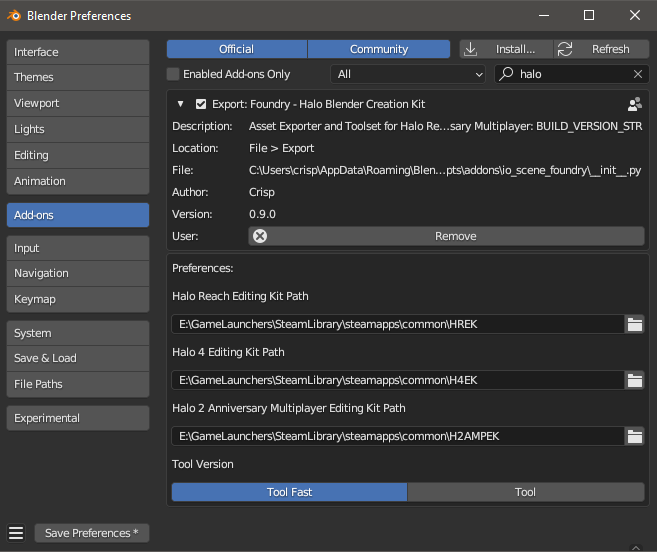
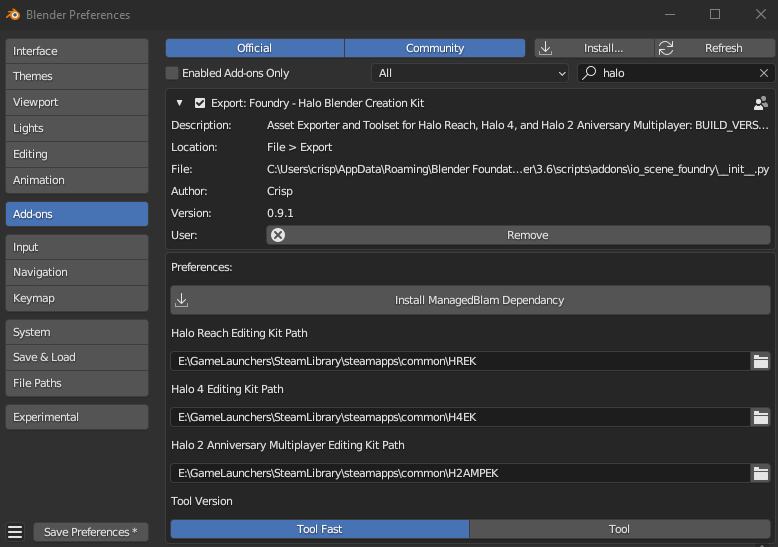
version update

diff --git a/io_scene_foundry/__init__.py b/io_scene_foundry/__init__.py
@@ -29,15 +29,13 @@
 
 import ctypes
 import bpy
-from bpy.types import AddonPreferences, Operator
-from bpy.props import StringProperty, EnumProperty, BoolProperty
 from bpy.app.handlers import persistent
 import os
 
 from io_scene_foundry.utils import nwo_globals
 
 try:
-    import sefsese
+    import clr
     nwo_globals.clr_installed = True
 except:
     nwo_globals.clr_installed = False
@@ -51,7 +49,7 @@ from io_scene_foundry.utils.nwo_utils import (
 bl_info = {
     "name": "Foundry - Halo Blender Creation Kit",
     "author": "Crisp",
-    "version": (0, 9, 0),
+    "version": (0, 9, 1),
     "blender": (3, 6, 0),
     "location": "File > Export",
     "description": "Asset Exporter and Toolset for Halo Reach, Halo 4, and Halo 2 Aniversary Multiplayer: BUILD_VERSION_STR",

diff --git a/build/create_zip.py b/build/create_zip.py
@@ -10,7 +10,7 @@ import os
 import subprocess
 from pathlib import Path
 
-VERSION = "0_9_0"
+VERSION = "0_9_1"
 
 def build_resources_zip() -> io.BytesIO:
     search_path = os.path.join("io_scene_foundry", "resources")
